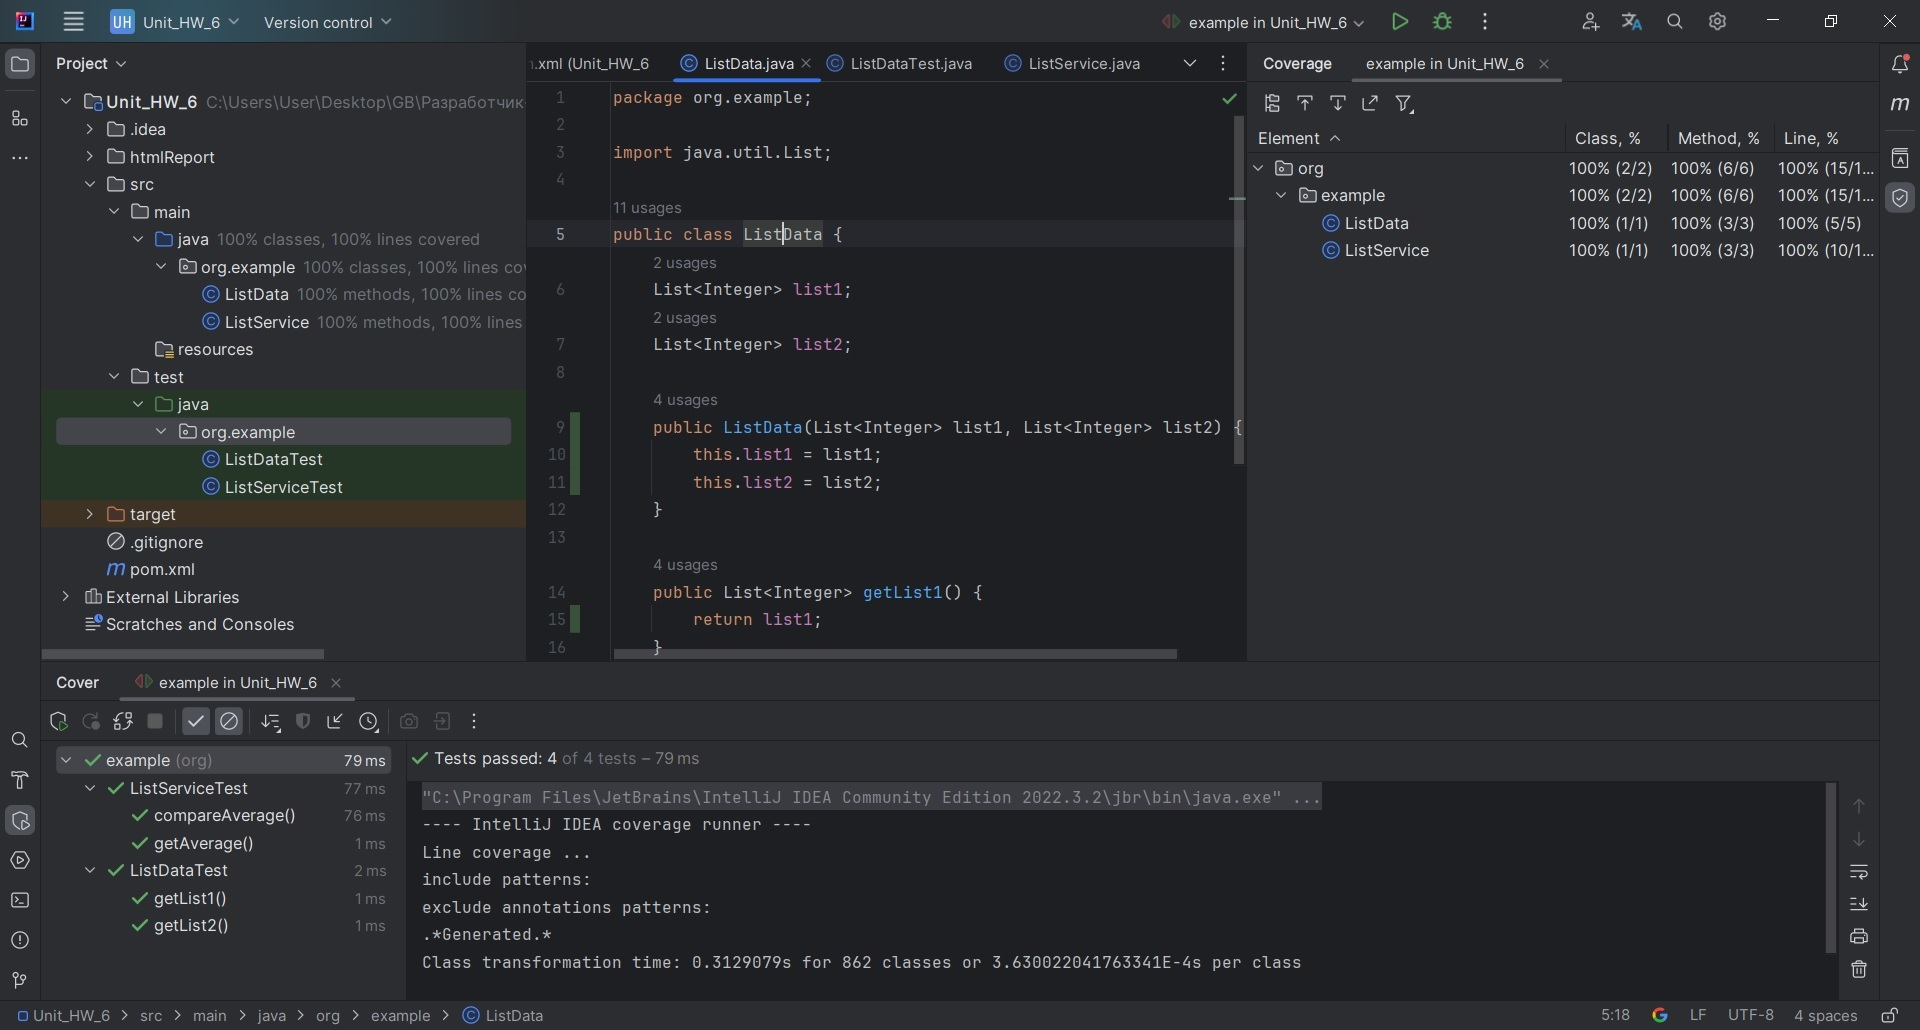
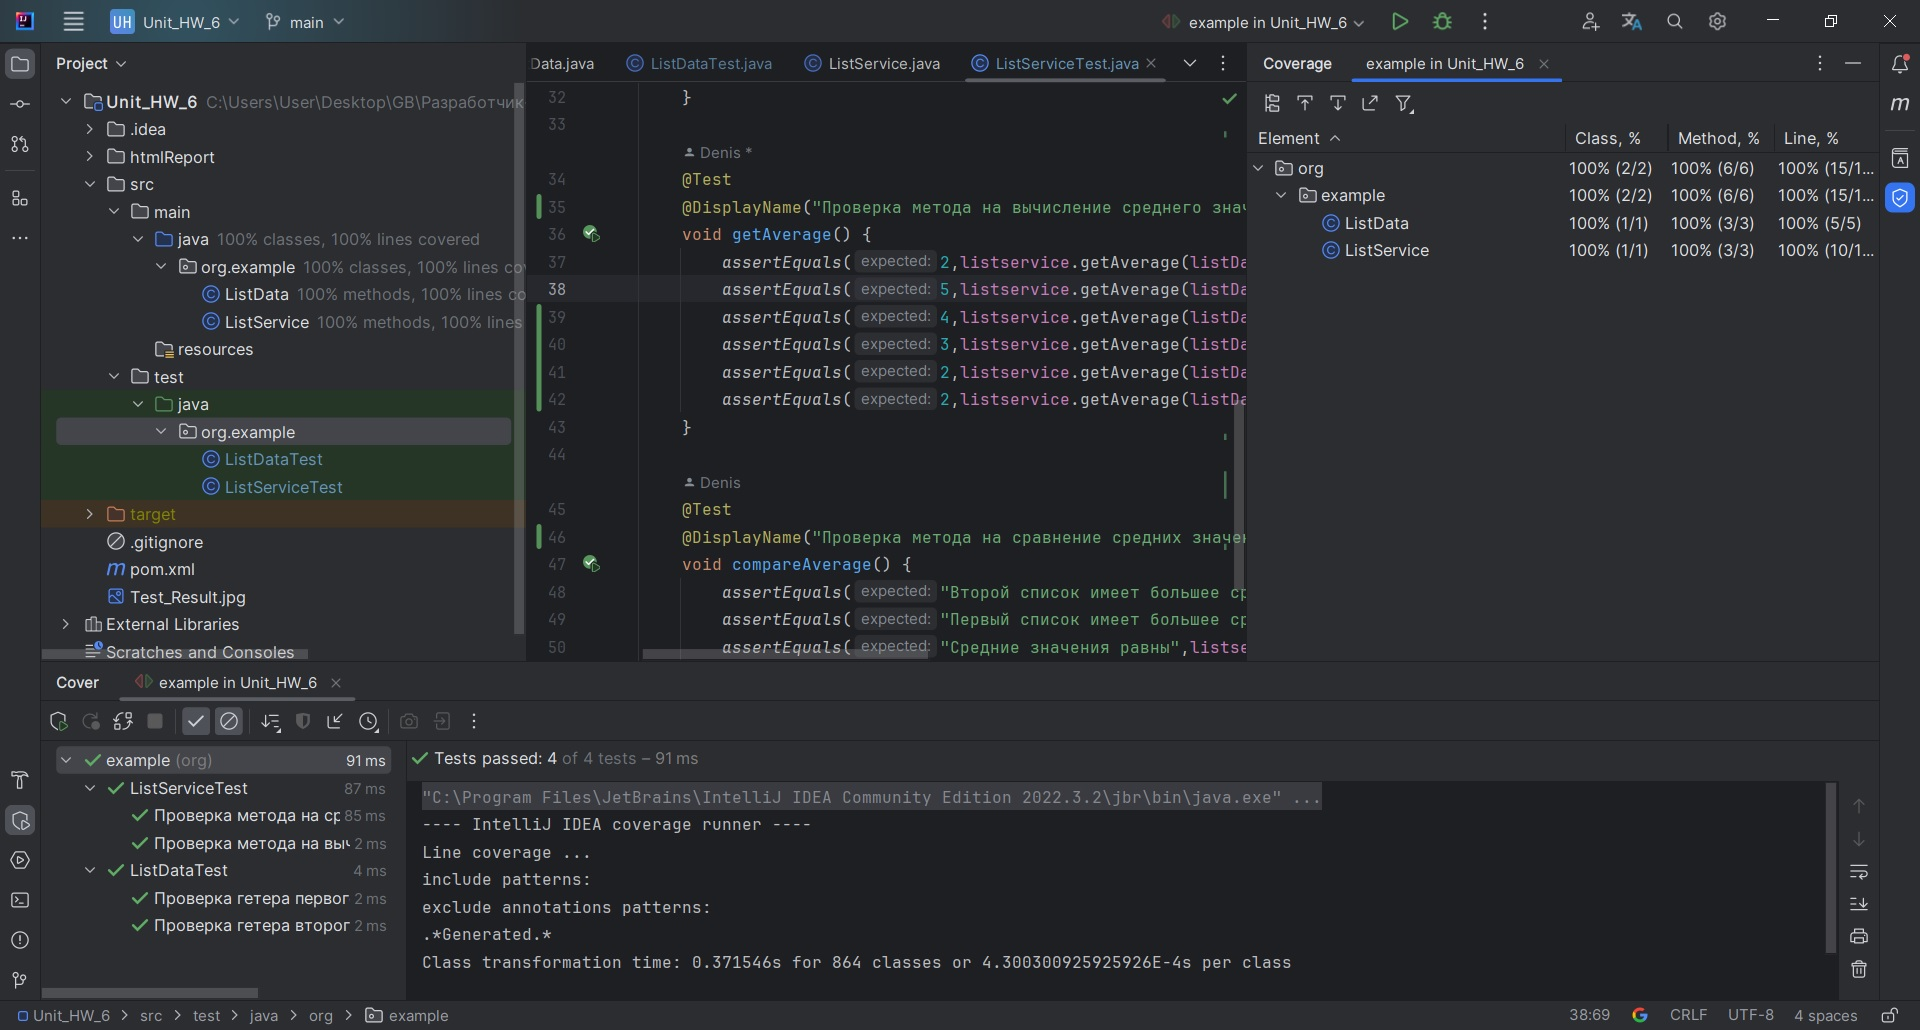
f

diff --git a/src/test/java/org/example/ListServiceTest.java b/src/test/java/org/example/ListServiceTest.java
@@ -2,6 +2,7 @@ package org.example;
 
 import org.junit.jupiter.api.AfterEach;
 import org.junit.jupiter.api.BeforeEach;
+import org.junit.jupiter.api.DisplayName;
 import org.junit.jupiter.api.Test;
 
 import java.util.Arrays;
@@ -31,12 +32,18 @@ class ListServiceTest {
     }
 
     @Test
+    @DisplayName("Проверка метода на вычисление среднего значения")
     void getAverage() {
         assertEquals(2,listservice.getAverage(listData.getList1()));
         assertEquals(5,listservice.getAverage(listData.getList2()));
+        assertEquals(4,listservice.getAverage(listData1.getList1()));
+        assertEquals(3,listservice.getAverage(listData1.getList2()));
+        assertEquals(2,listservice.getAverage(listData2.getList1()));
+        assertEquals(2,listservice.getAverage(listData2.getList2()));
     }
 
     @Test
+    @DisplayName("Проверка метода на сравнение средних значений")
     void compareAverage() {
         assertEquals("Второй список имеет большее среднее значение", listservice.compareAverage(listData));
         assertEquals("Первый список имеет большее среднее значение", listservice.compareAverage(listData1));

diff --git a/src/test/java/org/example/ListDataTest.java b/src/test/java/org/example/ListDataTest.java
@@ -2,6 +2,7 @@ package org.example;
 
 import org.junit.jupiter.api.AfterEach;
 import org.junit.jupiter.api.BeforeEach;
+import org.junit.jupiter.api.DisplayName;
 import org.junit.jupiter.api.Test;
 
 import java.util.Arrays;
@@ -22,11 +23,13 @@ class ListDataTest {
     }
 
     @Test
+    @DisplayName("Проверка гетера первого списка")
     void getList1() {
         assertEquals(Arrays.asList(1,2,3,4),listData.getList1());
     }
 
     @Test
+    @DisplayName("Проверка гетера второго списка")
     void getList2() {
         assertEquals(Arrays.asList(5,6,7,8),listData.getList2());
     }
